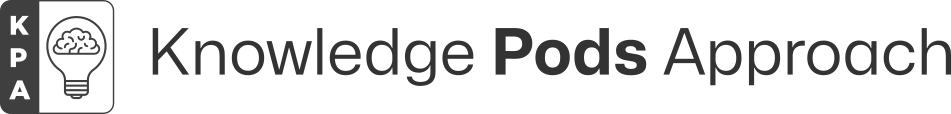
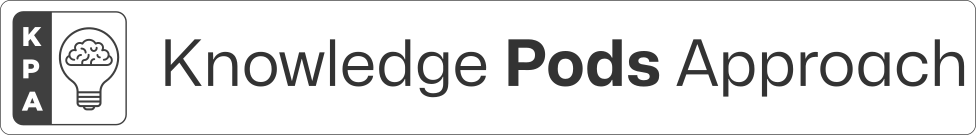
Fix header image
For some reason the dark/light mode trick isn't working anymore, so let's use a
unique image, to uniform everything.

Changed region(s): [[0.1525, 0.2368, 1.0, 0.7632], [0.0, 0.0, 1.0, 1.0]]

diff --git a/README.md b/README.md
@@ -1,4 +1,4 @@
-# ![KPA - The Knowledge Pods Approach](./images/kpa-github-header.png#gh-light-mode-only) ![KPA - The Knowledge Pods Approach](./images/kpa-github-header-dark.png#gh-dark-mode-only)
+![KPA - The Knowledge Pods Approach](./images/kpa-github-header.png)
 
 [![GitHub Actions CI](https://github.com/mmul-it/kpa/actions/workflows/main.yml/badge.svg?event=push)](https://github.com/mmul-it/kpa/actions/workflows/main.yml)
 
